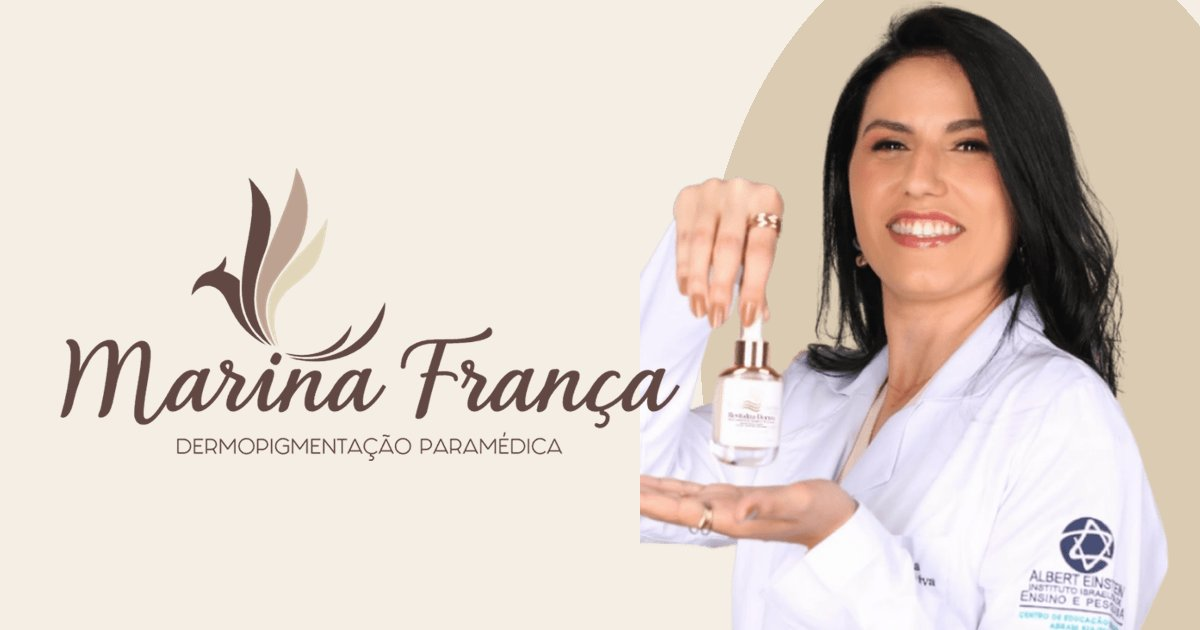
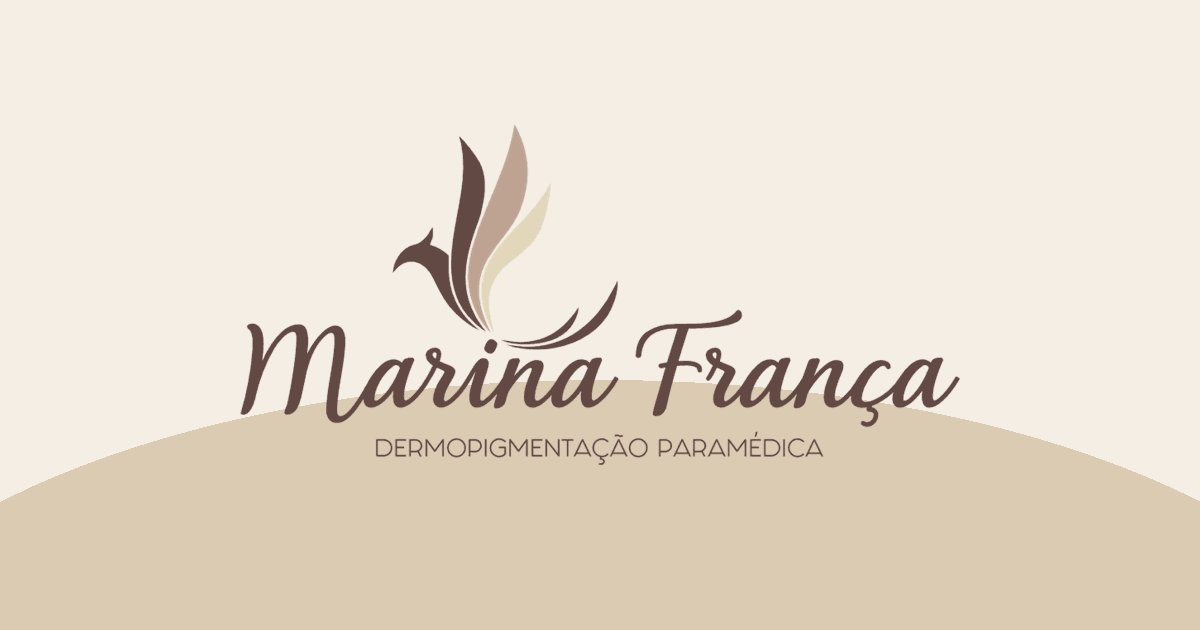
Mover foto da Marina do cabeçalho para os cards de curso e mentoria
Cabeçalho fica só com a logo. A foto dela de blazer volta ao card da
mentoria e a foto atendendo ao card da extensão, como na página antiga,
com o selo do MEC no canto de cada foto. Imagem Open Graph só com a logo.

Claude-Session: https://claude.ai/code/session_01NGC4jGA3EzoLwrrHnuNdbR

diff --git a/links/index.html b/links/index.html
@@ -64,19 +64,8 @@ img{display:block;max-width:100%}
 
 /* ---------- cabeçalho ---------- */
 .brand{text-align:center;padding-top:6px}
-.logo{width:min(230px,66%);margin:0 auto}
+.logo{width:min(270px,78%);margin:0 auto}
 .logo img{width:100%;height:auto}
-/* retrato em arco */
-.portrait{
-  width:176px;height:214px;margin:22px auto 0;position:relative;
-  border-radius:88px 88px 28px 28px;overflow:hidden;
-  background:linear-gradient(180deg,#e7dac6 0%,var(--sand) 60%,#cdb79b 100%);
-  box-shadow:inset 0 0 0 1px rgba(68,48,42,.12), 0 18px 36px -18px rgba(68,48,42,.5);
-}
-.portrait img{
-  position:absolute;left:50%;top:10px;transform:translateX(-50%);
-  width:182px;height:auto;
-}
 .eyebrow{
   margin-top:10px;font-size:11.5px;font-weight:700;letter-spacing:.18em;
   text-transform:uppercase;color:var(--taupe-2);
@@ -137,6 +126,23 @@ img{display:block;max-width:100%}
 .card .ico.pad{padding:7px}
 .card .duo{flex:0 0 auto;display:flex;gap:4px}
 .card .duo .ico{flex-basis:44px;width:44px;height:44px}
+
+/* cartões com foto da Marina (extensão e mentoria) */
+.card.photo{min-height:136px;padding-left:0;overflow:hidden}
+.card.photo .pic{
+  flex:0 0 112px;align-self:stretch;position:relative;margin:-16px 0;
+  background:linear-gradient(180deg,#e9ddcb 0%,var(--sand) 55%,#cdb79b 100%);
+}
+.card.photo .pic .ph{position:absolute;inset:0;width:100%;height:100%;object-fit:cover;display:block}
+.card.photo .pic.cut .ph{object-fit:contain;object-position:center bottom;top:6px;width:120%;left:-10%}
+.card.photo .kicker{letter-spacing:.06em;font-size:10px}
+.card.photo .pic::after{
+  content:"";position:absolute;inset:0;pointer-events:none;
+  background:linear-gradient(90deg,transparent 70%,var(--paper) 100%);
+}
+.card.photo .title{font-size:18px}
+.card.photo .pic .seal{position:absolute;left:auto;top:auto;right:6px;bottom:8px;width:40px;height:auto;z-index:1;
+  filter:drop-shadow(0 2px 4px rgba(0,0,0,.25))}
 .card .txt{flex:1;min-width:0}
 .card .kicker{
   display:block;font-size:10.5px;font-weight:700;letter-spacing:.14em;
@@ -217,9 +223,6 @@ img{display:block;max-width:100%}
     <h1 class="logo">
       <img src="/links/assets/logo.png" alt="Marina França · Dermopigmentação Paramédica" width="720" height="340">
     </h1>
-    <div class="portrait" aria-hidden="true">
-      <img src="/links/assets/marina.webp" alt="" width="400" height="470">
-    </div>
     <p class="eyebrow">Especialista em Dermopigmentação Paramédica</p>
     <p class="intro">
       Camuflagem de cicatrizes, estrias, manchas e reconstrução de aréola.
@@ -280,24 +283,26 @@ img{display:block;max-width:100%}
   <p class="label" id="profissionais">Para profissionais</p>
   <nav class="list" aria-label="Cursos para profissionais">
 
-    <a class="card" href="#" data-wa="extensao" rel="noopener">
-      <span class="ico raw" aria-hidden="true">
-        <img src="/links/assets/selo-mec.png" alt="" width="178" height="220">
+    <a class="card photo" href="#" data-wa="extensao" rel="noopener">
+      <span class="pic" aria-hidden="true">
+        <img class="ph" src="/links/assets/marina-extensao.webp" alt="" width="240" height="300">
+        <img class="seal" src="/links/assets/selo-mec.png" alt="" width="178" height="220">
       </span>
       <span class="txt">
-        <span class="kicker">Formação · Reconhecida pelo MEC</span>
+        <span class="kicker">Reconhecida pelo MEC</span>
         <span class="title">Extensão Universitária em Dermopigmentação</span>
         <span class="sub">Saber mais pelo WhatsApp</span>
       </span>
       <span class="go" aria-hidden="true"><svg viewBox="0 0 24 24"><path d="M5 12h14M13 6l6 6-6 6"/></svg></span>
     </a>
 
-    <a class="card" href="#" data-wa="mentoria" rel="noopener">
-      <span class="ico raw" aria-hidden="true">
-        <img src="/links/assets/selo-mec.png" alt="" width="178" height="220">
+    <a class="card photo" href="#" data-wa="mentoria" rel="noopener">
+      <span class="pic cut" aria-hidden="true">
+        <img class="ph" src="/links/assets/marina-mentoria.webp" alt="" width="240" height="393">
+        <img class="seal" src="/links/assets/selo-mec.png" alt="" width="178" height="220">
       </span>
       <span class="txt">
-        <span class="kicker">Mentoria · Reconhecida pelo MEC</span>
+        <span class="kicker">Reconhecida pelo MEC</span>
         <span class="title">Mentoria ao Vivo em Dermopigmentação</span>
         <span class="sub">Saber mais pelo WhatsApp</span>
       </span>
